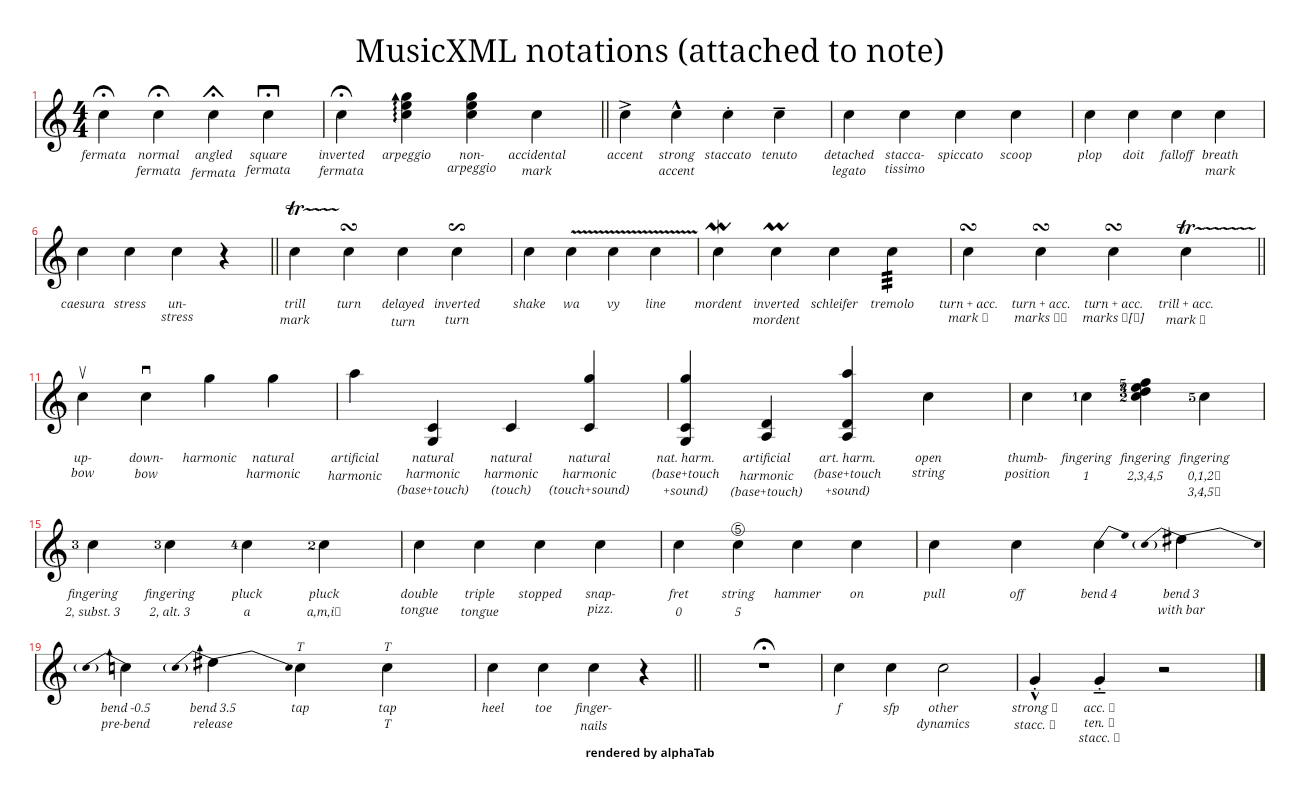
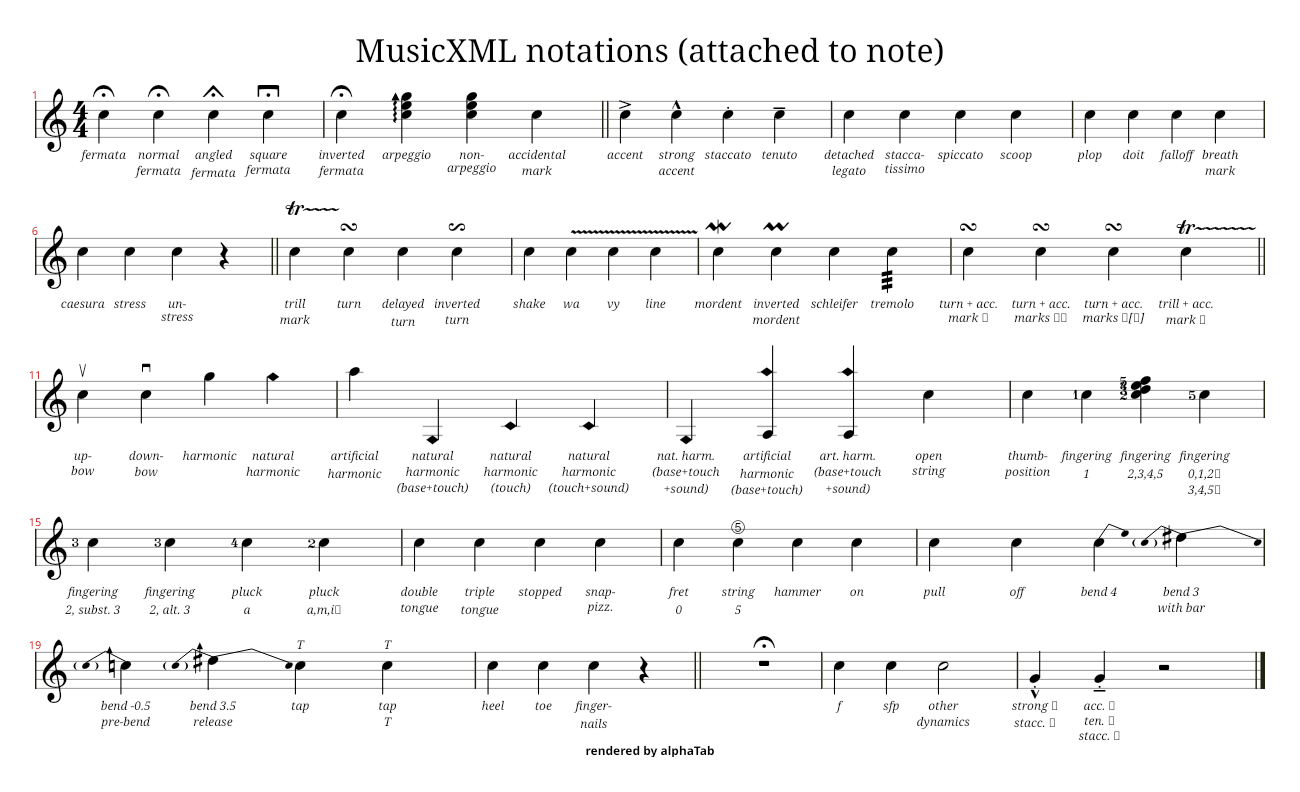
fix(musicxml): import harmonics and fold touching and sounding pitch notes (#2942)
MusicXML writes a harmonic as chord notes for the base, touching and sounding pitch.
These were imported as additional played notes, on tablature staves without string
and fret (NaN positions). The touching and sounding notes now define the harmonic
value of their base pitch note, matching how Guitar Pro 8 writes and reads them.

diff --git a/packages/alphatab/src/importer/MusicXmlImporter.ts b/packages/alphatab/src/importer/MusicXmlImporter.ts
@@ -28,6 +28,7 @@ import { FermataType, Fermata } from '@coderline/alphatab/model/Fermata';
 import { Fingers } from '@coderline/alphatab/model/Fingers';
 import { GolpeType } from '@coderline/alphatab/model/GolpeType';
 import { GraceType } from '@coderline/alphatab/model/GraceType';
+import { HarmonicType } from '@coderline/alphatab/model/HarmonicType';
 import { InstrumentArticulation } from '@coderline/alphatab/model/InstrumentArticulation';
 import { KeySignature } from '@coderline/alphatab/model/KeySignature';
 import { KeySignatureType } from '@coderline/alphatab/model/KeySignatureType';
@@ -55,6 +56,42 @@ import { XmlDocument } from '@coderline/alphatab/xml/XmlDocument';
 import type { XmlNode } from '@coderline/alphatab/xml/XmlNode';
 import type { ZipEntry } from '@coderline/alphatab/zip/ZipEntry';
 import { ZipReader } from '@coderline/alphatab/zip/ZipReader';
+
+/**
+ * The pitch a note of a MusicXML harmonic describes.
+ * @internal
+ */
+enum MusicXmlHarmonicPitch {
+    None = 0,
+    Base = 1,
+    Touching = 2,
+    Sounding = 3
+}
+
+/**
+ * @internal
+ * @record
+ */
+interface MusicXmlHarmonic {
+    type: HarmonicType;
+    pitch: MusicXmlHarmonicPitch;
+    /**
+     * Groups the notes of one harmonic when a chord holds several of them (number-level, MusicXML 4.1).
+     */
+    group: string;
+}
+
+/**
+ * The note which represents a MusicXML harmonic in the current beat.
+ * @internal
+ * @record
+ */
+interface MusicXmlHarmonicGroup {
+    note: Note;
+    type: HarmonicType;
+    isBasePitch: boolean;
+    hasTouchingPitch: boolean;
+}
 
 /**
  * @internal
@@ -1037,6 +1074,11 @@ export class MusicXmlImporter extends ScoreImporter {
      * to access the current voice/staff (e.g. on rests when we don't have notes)
      */
     private _lastBeat: Beat | null = null;
+
+    /**
+     * The harmonic groups of the last created beat, by their group number.
+     */
+    private _harmonicGroups = new Map<string, MusicXmlHarmonicGroup>();
 
     private _parsePartMeasure(
         element: XmlNode,
@@ -2600,6 +2642,11 @@ export class MusicXmlImporter extends ScoreImporter {
             isChord = false;
         }
 
+        const harmonic = note !== null ? MusicXmlImporter._readHarmonic(element) : null;
+        if (isChord && harmonic !== null && this._foldHarmonicNote(note!, harmonic, track, staffIndex)) {
+            return;
+        }
+
         // the stem direction relates to the written pitch, hence remember it before the staff transposition is applied
         const writtenNoteValue = note !== null ? this._calculatePitchedNoteValue(note) : 0;
 
@@ -2615,6 +2662,14 @@ export class MusicXmlImporter extends ScoreImporter {
         if (note !== null) {
             note.isVisible = element.getAttribute('print-object', 'yes') !== 'no';
             this._resolveAttachedNote(note, instrumentId, isPitched);
+            if (harmonic !== null && harmonic.pitch !== MusicXmlHarmonicPitch.None) {
+                this._harmonicGroups.set(harmonic.group, {
+                    note,
+                    type: harmonic.type,
+                    isBasePitch: harmonic.pitch === MusicXmlHarmonicPitch.Base,
+                    hasTouchingPitch: false
+                });
+            }
         }
 
         // Pass 2: interpret all other children with the note attached
@@ -2787,7 +2842,117 @@ export class MusicXmlImporter extends ScoreImporter {
         if (note !== null) {
             // <technical><string> is only known after pass 2
             this._finalizeStringNumber(note);
+            // natural harmonics are touched at the fret, artificial harmonics need the touching or sounding pitch of a following chord note
+            if (
+                harmonic !== null &&
+                harmonic.type === HarmonicType.Natural &&
+                (!note.isStringed || ModelUtils.harmonicValueToPitch(note.fret) > 0)
+            ) {
+                note.harmonicType = HarmonicType.Natural;
+                note.harmonicValue = ModelUtils.deltaFretToHarmonicValue(note.fret);
+            }
         }
+    }
+
+    /**
+     * Reads the `<technical><harmonic>` of the note.
+     * A harmonic without `<natural/>` or `<artificial/>` only shows the harmonic circle, like Guitar Pro 8 we ignore it
+     * (it exports pinch, tap and semi harmonics like this).
+     */
+    private static _readHarmonic(element: XmlNode): MusicXmlHarmonic | null {
+        for (const notations of element.childElements()) {
+            if (notations.localName !== 'notations') {
+                continue;
+            }
+            for (const technical of notations.childElements()) {
+                if (technical.localName !== 'technical') {
+                    continue;
+                }
+                for (const c of technical.childElements()) {
+                    if (c.localName !== 'harmonic') {
+                        continue;
+                    }
+                    const harmonic: MusicXmlHarmonic = {
+                        type: HarmonicType.None,
+                        pitch: MusicXmlHarmonicPitch.None,
+                        group: c.getAttribute('number', '1')
+                    };
+                    for (const h of c.childElements()) {
+                        switch (h.localName) {
+                            case 'natural':
+                                harmonic.type = HarmonicType.Natural;
+                                break;
+                            case 'artificial':
+                                harmonic.type = HarmonicType.Artificial;
+                                break;
+                            case 'base-pitch':
+                                harmonic.pitch = MusicXmlHarmonicPitch.Base;
+                                break;
+                            case 'touching-pitch':
+                                harmonic.pitch = MusicXmlHarmonicPitch.Touching;
+                                break;
+                            case 'sounding-pitch':
+                                harmonic.pitch = MusicXmlHarmonicPitch.Sounding;
+                                break;
+                        }
+                    }
+                    return harmonic.type !== HarmonicType.None ? harmonic : null;
+                }
+            }
+        }
+        return null;
+    }
+
+    /**
+     * MusicXML writes a harmonic as separate chord notes for the base pitch (the played note),
+     * the touching pitch (where the string is touched) and the sounding pitch (what is heard).
+     * In alphaTab a harmonic is one note: the touching and sounding notes are folded into the note
+     * of their harmonic (which they follow in all known files: the MusicXML examples, the LilyPond test suite, Guitar Pro 8)
+     * and only define its harmonic value. A base pitch note starts a new harmonic.
+     * The touching pitch defines the harmonic more precisely than the sounding pitch (e.g. fret 7 and 19 sound the same),
+     * Guitar Pro 8 writes both consistently.
+     * The pitch is relative to the staff the note specifies, Guitar Pro 8 omits the `<staff>` on these chord notes
+     * of a tablature staff and writes them in the pitch of the first staff.
+     * @returns true if the note was folded and must not be added to the beat.
+     */
+    private _foldHarmonicNote(note: Note, harmonic: MusicXmlHarmonic, track: Track, staffIndex: number): boolean {
+        const group = this._harmonicGroups.get(harmonic.group);
+        if (
+            group === undefined ||
+            harmonic.pitch === MusicXmlHarmonicPitch.Base ||
+            harmonic.pitch === MusicXmlHarmonicPitch.None
+        ) {
+            return false;
+        }
+
+        // only the base pitch is a reference for the harmonic value
+        const played = group.note;
+        if (group.isBasePitch && !group.hasTouchingPitch) {
+            const transpose = this._getStaffContext(this._getOrCreateStaff(track, staffIndex)).transpose;
+            let interval = this._calculatePitchedNoteValue(note) + transpose - this._calculatePitchedNoteValue(played);
+            // natural harmonics are touched relative to the open string
+            if (played.isStringed && group.type === HarmonicType.Natural) {
+                interval += played.fret;
+            }
+
+            if (harmonic.pitch === MusicXmlHarmonicPitch.Touching) {
+                played.harmonicType = group.type;
+                played.harmonicValue = ModelUtils.deltaFretToHarmonicValue(interval);
+                group.hasTouchingPitch = true;
+            } else {
+                // the lowest fret sounding the interval
+                for (let fret = 1; fret <= 24; fret++) {
+                    const value = ModelUtils.deltaFretToHarmonicValue(fret);
+                    if (ModelUtils.harmonicValueToPitch(value) === interval) {
+                        played.harmonicType = group.type;
+                        played.harmonicValue = value;
+                        break;
+                    }
+                }
+            }
+        }
+
+        return true;
     }
 
     /**
@@ -2850,6 +3015,7 @@ export class MusicXmlImporter extends ScoreImporter {
 
         const newBeat = new Beat();
         this._beats.push(newBeat);
+        this._harmonicGroups.clear();
         newBeat.isEmpty = false;
         newBeat.dynamics = this._currentDynamics;
 
@@ -3664,8 +3830,7 @@ export class MusicXmlImporter extends ScoreImporter {
                 case 'down-bow':
                     beat.pickStroke = PickStroke.Down;
                     break;
-                case 'harmonic':
-                    break;
+                // case 'harmonic': handled in _parseNote
                 // case 'open-string': Not supported
                 // case 'thumb-position': Not supported
                 case 'fingering':

diff --git a/packages/alphatab/test/importer/MusicXmlImporter.test.ts b/packages/alphatab/test/importer/MusicXmlImporter.test.ts
@@ -8,6 +8,7 @@ import { BendType } from '@coderline/alphatab/model/BendType';
 import { CrescendoType } from '@coderline/alphatab/model/CrescendoType';
 import { Direction } from '@coderline/alphatab/model/Direction';
 import { Fingers } from '@coderline/alphatab/model/Fingers';
+import { HarmonicType } from '@coderline/alphatab/model/HarmonicType';
 import { JsonConverter } from '@coderline/alphatab/model/JsonConverter';
 import { ModelUtils } from '@coderline/alphatab/model/ModelUtils';
 import { Ottavia } from '@coderline/alphatab/model/Ottavia';
@@ -593,6 +594,100 @@ describe('MusicXmlImporterTests', () => {
         expect(notes[0].hammerPullDestination).toBe(notes[1]);
         expect(notes[1].hammerPullDestination).toBe(notes[2]);
         expect(notes[3].isHammerPullDestination).toBe(false);
+    });
+
+    it('harmonics', () => {
+        const harmonic = (type: string, pitch: string) => `<harmonic><${type}/>${pitch}</harmonic>`;
+        const tab = (string: number, fret: number) => `<string>${string}</string><fret>${fret}</fret>`;
+        // chord notes without <staff> (like Guitar Pro 8 writes them) belong to the first staff
+        const note = (chord: string, step: string, octave: number, staff: string, technical: string) =>
+            `<note>${chord}<pitch><step>${step}</step><octave>${octave}</octave></pitch><duration>4</duration>` +
+            `<voice>1</voice><type>whole</type>${staff}<notations><technical>${technical}</technical></notations></note>`;
+        const chord = (step: string, octave: number, type: string, pitch: string) =>
+            note('<chord/>', step, octave, '', harmonic(type, pitch));
+        const tuning = (line: number, step: string, octave: number) =>
+            `<staff-tuning line="${line}"><tuning-step>${step}</tuning-step><tuning-octave>${octave}</tuning-octave></staff-tuning>`;
+        const tabStaff = (staff: string) =>
+            `<clef${staff}><sign>TAB</sign><line>5</line></clef><staff-details${staff}><staff-lines>6</staff-lines>` +
+            `${tuning(1, 'E', 2)}${tuning(2, 'A', 2)}${tuning(3, 'D', 3)}${tuning(4, 'G', 3)}${tuning(5, 'B', 3)}${tuning(6, 'E', 4)}</staff-details>`;
+        const measure = (n: number, attributes: string, notes: string) =>
+            `<measure number="${n}">${attributes ? `<attributes><divisions>1</divisions>${attributes}</attributes>` : ''}${notes}</measure>`;
+
+        const xml = `<?xml version="1.0" encoding="UTF-8"?>
+<score-partwise version="4.0">
+  <part-list><score-part id="P1"><part-name>GP8</part-name></score-part><score-part id="P2"><part-name>Guitar</part-name></score-part></part-list>
+  <part id="P1">${measure(
+      1,
+      `<staves>2</staves><clef number="1"><sign>G</sign><line>2</line></clef>${tabStaff(' number="2"')}` +
+          '<transpose number="1"><diatonic>0</diatonic><chromatic>0</chromatic><octave-change>-1</octave-change></transpose>',
+      // Guitar Pro 8 writes the touching and sounding pitch of both staves in the (octave transposed) pitch of the first staff
+      note('', 'C', 5, '<staff>1</staff>', harmonic('artificial', '<base-pitch/>')) +
+          chord('G', 5, 'artificial', '<touching-pitch/>') +
+          chord('G', 6, 'artificial', '<sounding-pitch/>') +
+          '<backup><duration>4</duration></backup>' +
+          note('', 'C', 4, '<staff>2</staff>', harmonic('artificial', '<base-pitch/>') + tab(2, 1)) +
+          chord('G', 5, 'artificial', '<touching-pitch/>') +
+          chord('G', 6, 'artificial', '<sounding-pitch/>')
+  )}</part>
+  <part id="P2">${[
+      // harmonic circle only (Guitar Pro 8 writes pinch, tap and semi harmonics like this)
+      note('', 'G', 4, '', `<harmonic/>${tab(3, 12)}`),
+      note('', 'G', 4, '', harmonic('natural', '') + tab(3, 12)),
+      // no natural harmonic at fret 1
+      note('', 'C', 4, '', harmonic('natural', '<base-pitch/>') + tab(2, 1)),
+      note('', 'D', 4, '', harmonic('natural', '<touching-pitch/>') + tab(3, 7)),
+      // artificial harmonic without touching or sounding pitch
+      note('', 'C', 4, '', harmonic('artificial', '') + tab(2, 1)),
+      note('', 'C', 4, '', harmonic('artificial', '<base-pitch/>') + tab(2, 1)) +
+          chord('F', 4, 'artificial', '<touching-pitch/>'),
+      note('', 'C', 4, '', harmonic('artificial', '<base-pitch/>') + tab(2, 1)) +
+          chord('G', 5, 'artificial', '<sounding-pitch/>'),
+      // natural harmonic on the open string touched at fret 7
+      note('', 'G', 3, '', harmonic('natural', '<base-pitch/>') + tab(3, 0)) +
+          chord('D', 4, 'natural', '<touching-pitch/>') +
+          chord('D', 5, 'natural', '<sounding-pitch/>'),
+      // a base pitch starts a new harmonic in the chord
+      note('', 'C', 4, '', harmonic('artificial', '<base-pitch/>') + tab(2, 1)) +
+          chord('C', 5, 'artificial', '<touching-pitch/>') +
+          note('<chord/>', 'E', 4, '', tab(1, 0)) +
+          note('<chord/>', 'A', 3, '', harmonic('artificial', '<base-pitch/>') + tab(3, 2)) +
+          chord('E', 4, 'artificial', '<touching-pitch/>')
+  ]
+      .map((content, i) => measure(i + 1, i === 0 ? tabStaff('') : '', content))
+      .join('')}</part>
+</score-partwise>`;
+        const score = MusicXmlImporterTestHelper.prepareImporterWithBytes(IOHelper.stringToBytes(xml)).readScore();
+
+        // notation and tablature staff of Guitar Pro 8 sound the same harmonic
+        for (const staff of score.tracks[0].staves) {
+            const staffNotes = staff.bars[0].voices[0].beats[0].notes;
+            expect(staffNotes.length).toBe(1);
+            expect(staffNotes[0].harmonicType).toBe(HarmonicType.Artificial);
+            expect(staffNotes[0].harmonicValue).toBe(7);
+            expect(staffNotes[0].realValue).toBe(79);
+        }
+
+        const notes: Note[] = [];
+        for (const bar of score.tracks[1].staves[0].bars) {
+            for (const n of bar.voices[0].beats[0].notes) {
+                notes.push(n);
+            }
+        }
+        expect(notes.map(n => n.harmonicType)).toEqual([
+            HarmonicType.None,
+            HarmonicType.Natural,
+            HarmonicType.None,
+            HarmonicType.Natural,
+            HarmonicType.None,
+            HarmonicType.Artificial,
+            HarmonicType.Artificial,
+            HarmonicType.Natural,
+            HarmonicType.Artificial,
+            HarmonicType.None,
+            HarmonicType.Artificial
+        ]);
+        expect(notes.map(n => n.harmonicValue)).toEqual([0, 12, 0, 7, 0, 5, 7, 7, 12, 0, 7]);
+        expect(notes.map(n => n.realValue)).toEqual([67, 67, 60, 74, 60, 84, 79, 74, 72, 64, 76]);
     });
 
     describe('barnumberdisplay', async () => {
